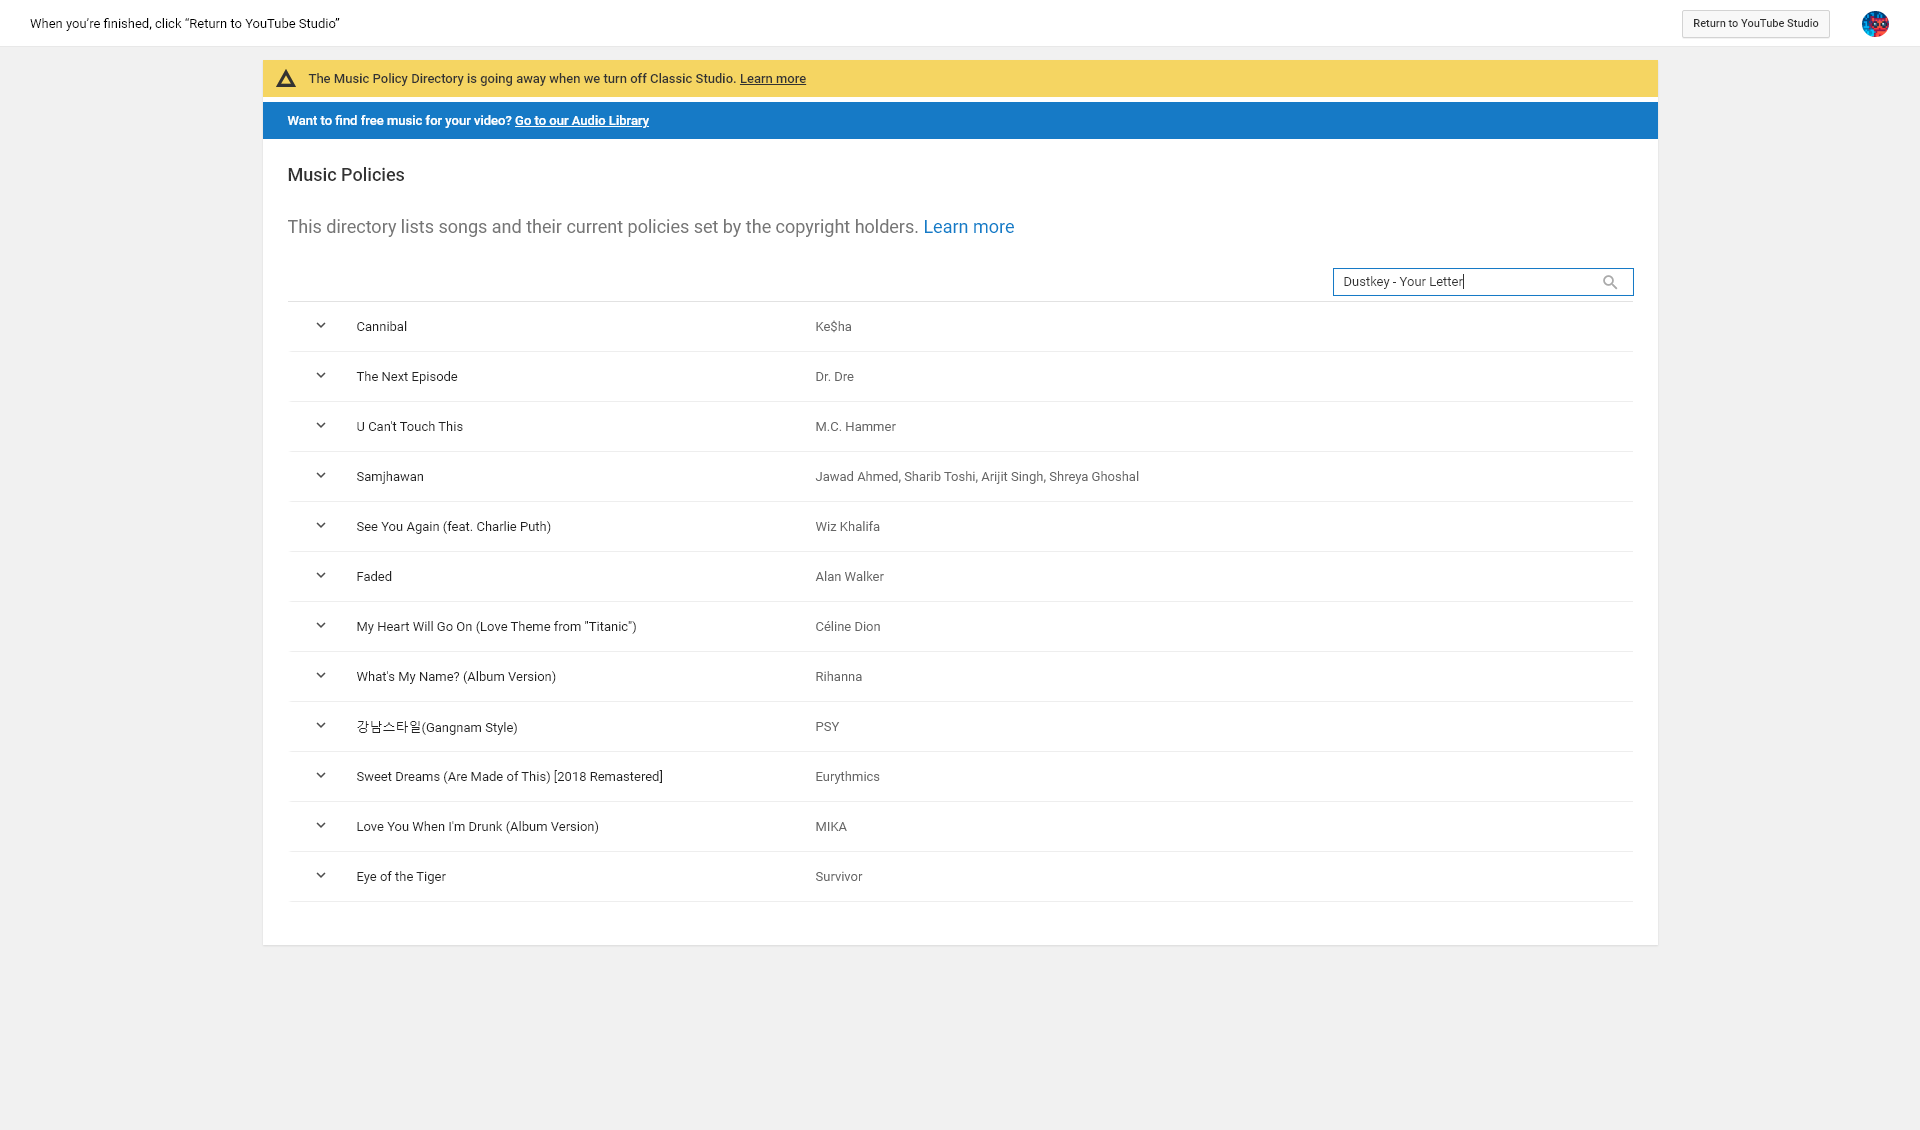
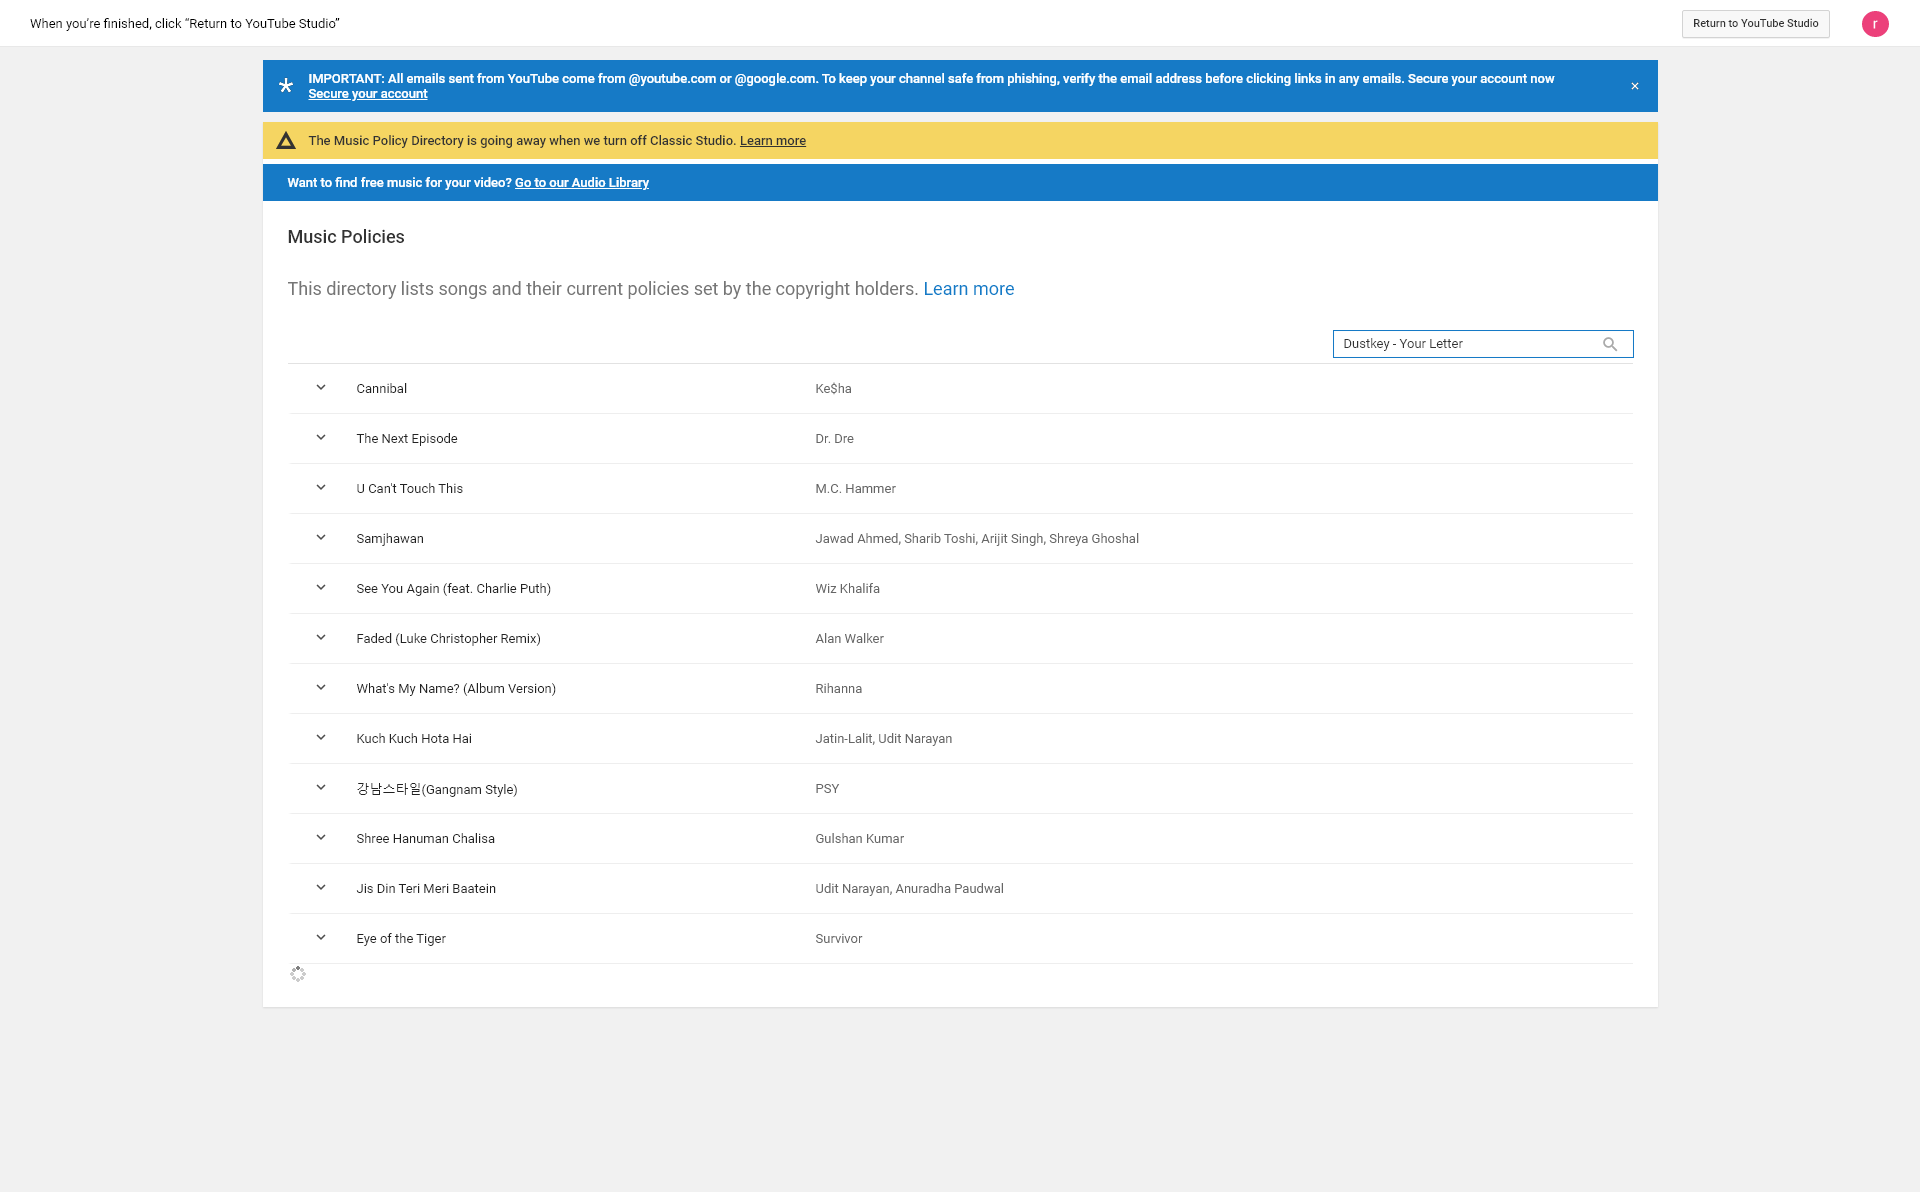
Add enter

diff --git a/app/stealth.js b/app/stealth.js
@@ -51,6 +51,10 @@ puppeteer
     console.log("clicked");
     await page.waitFor(2500);
     await page.type('input[maxlength="80"]', "Dustkey - Your Letter");
+    await page.waitFor(2500);
+    await page.keyboard.press(String.fromCharCode(13));
+
+    await page.waitFor(5000);
     await page.screenshot({ path: "testresult.png", fullPage: true });
     console.log("screenshoted");
 
